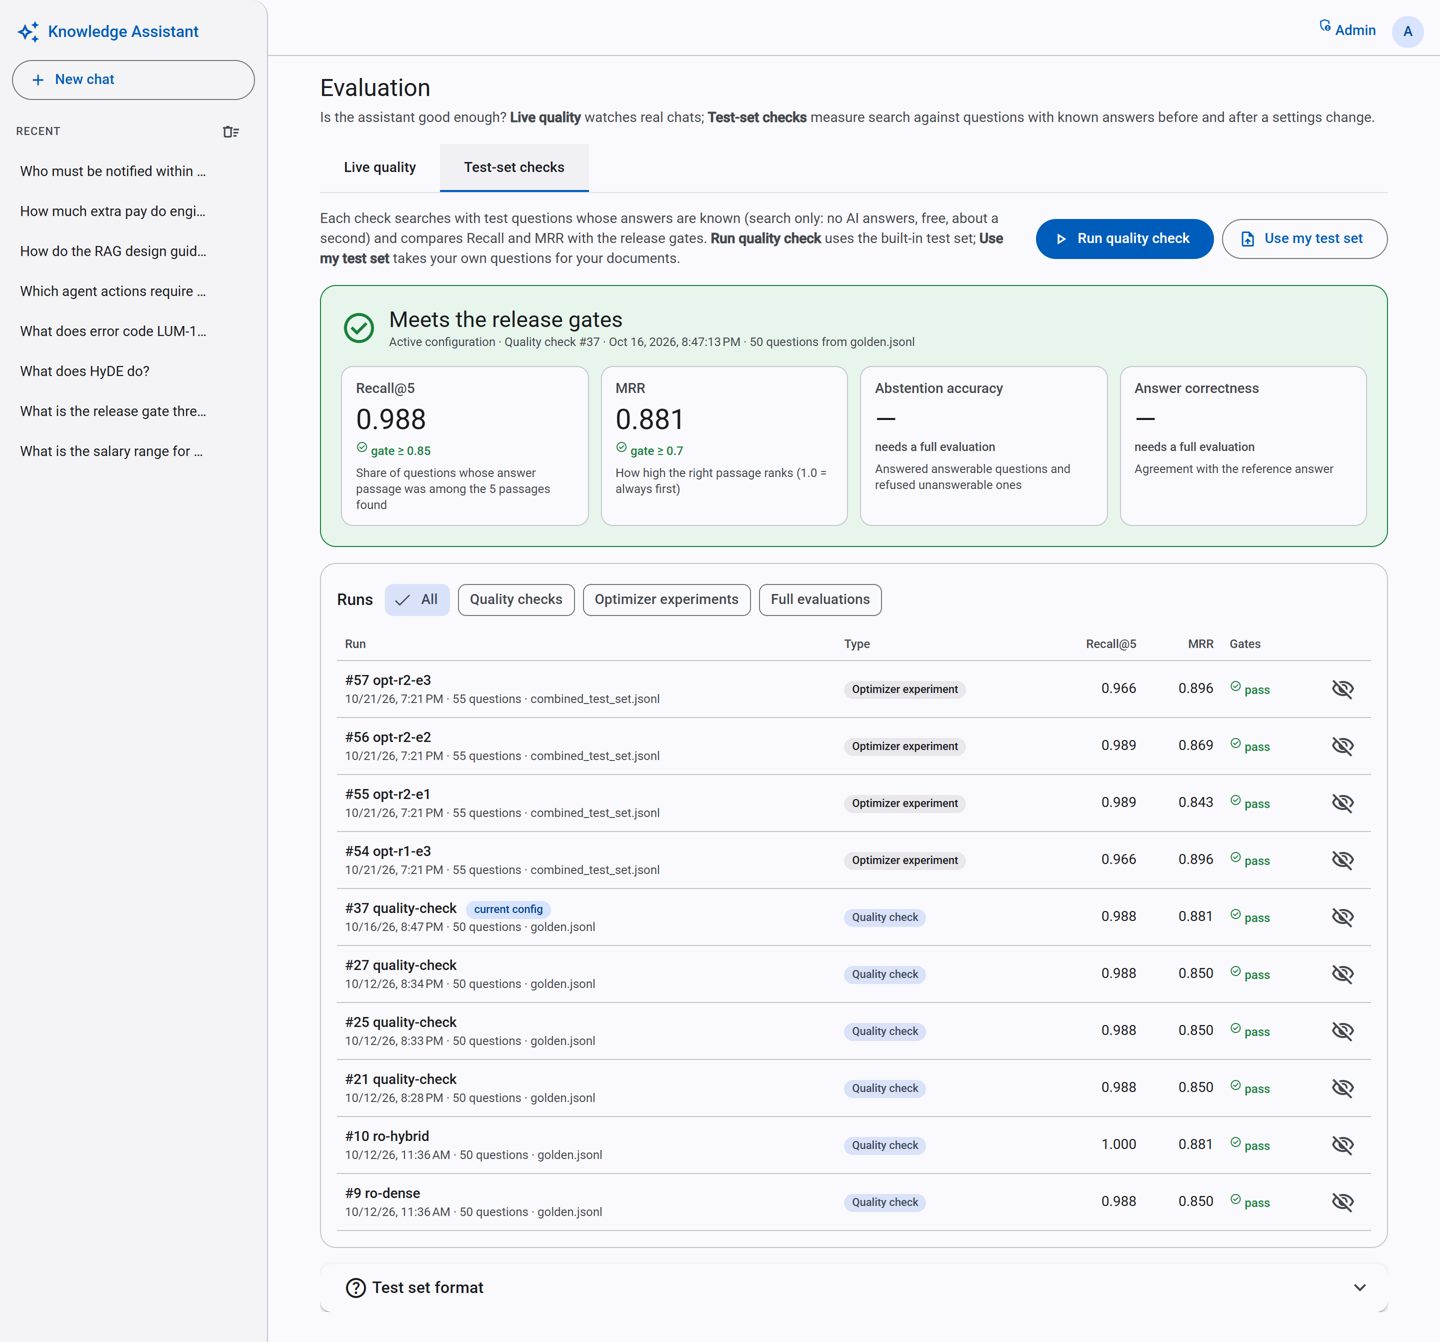
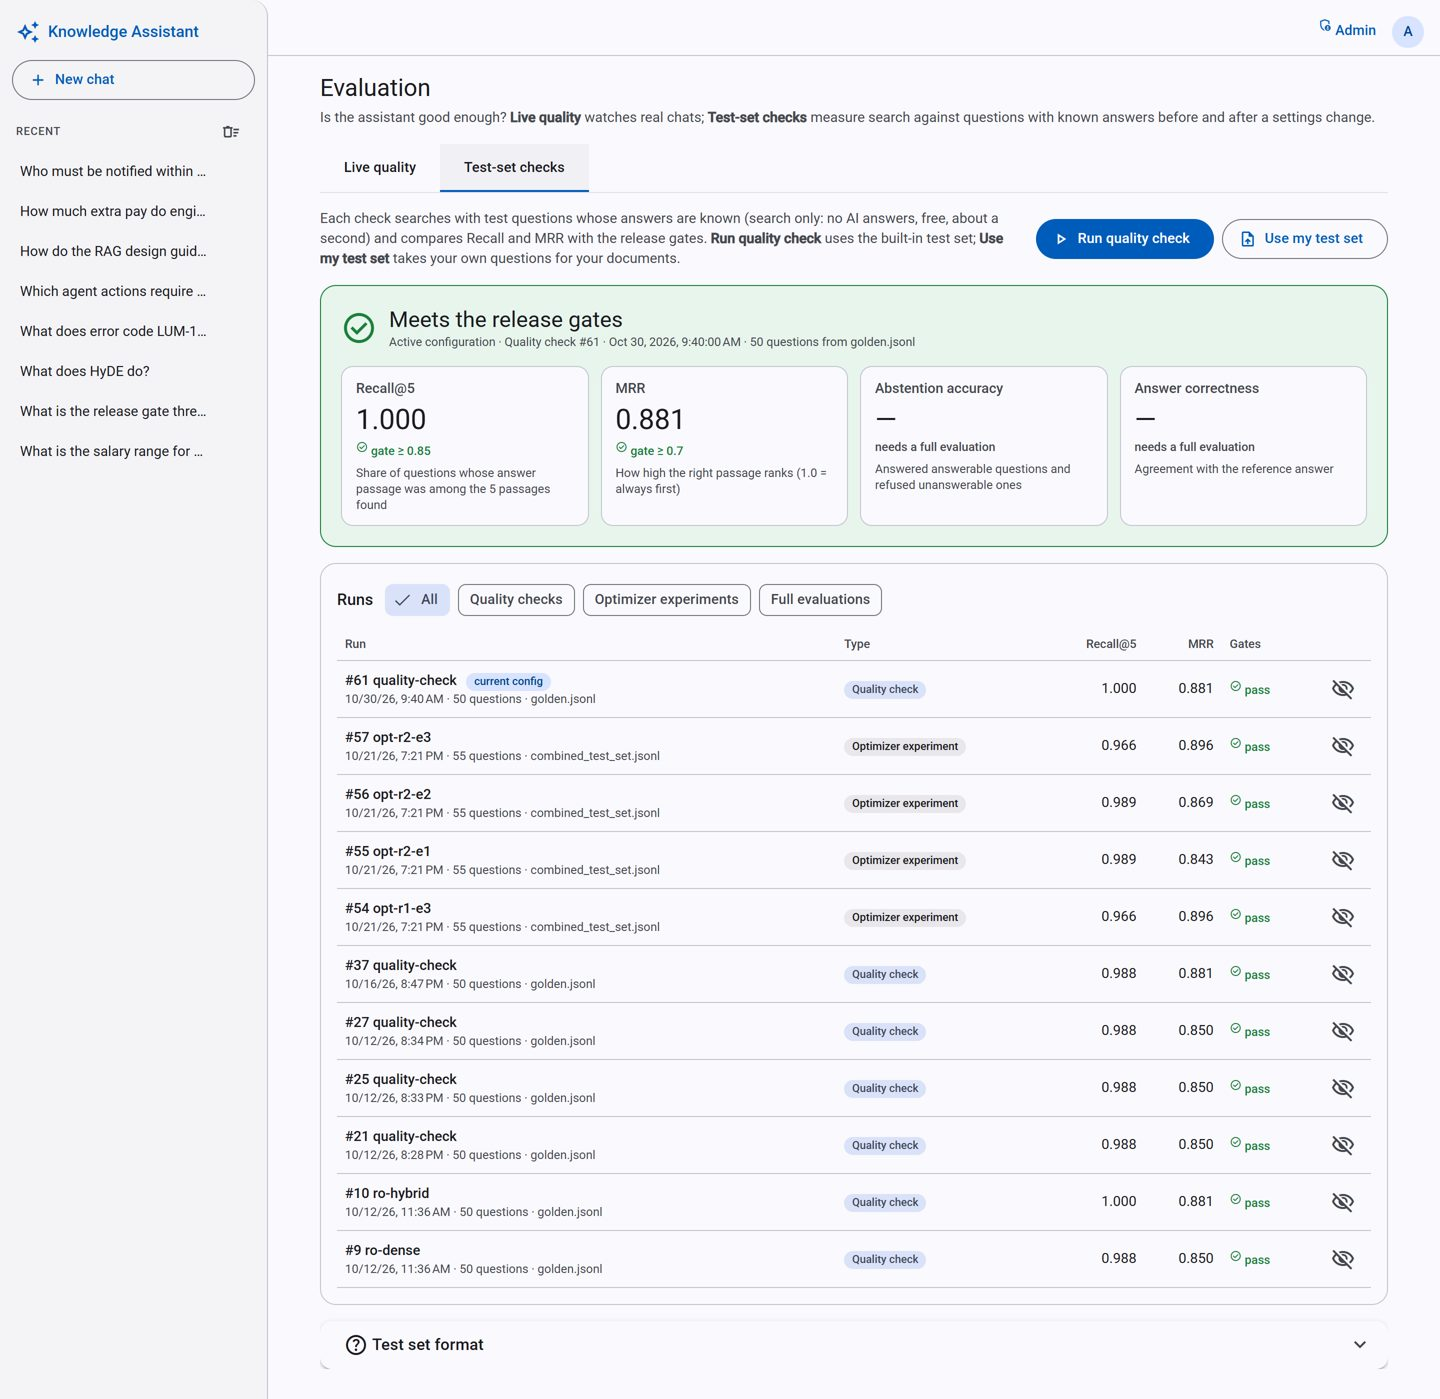
Docs: README screenshots refreshed, refusal wording made exact
Off-topic questions are refused before the LLM is called (the question is
still embedded). Refreshed the refusal, test-set and diagram images.

Synced-from: 9f62670

diff --git a/README.md b/README.md
@@ -89,7 +89,8 @@ for these documents; call counts on the Usage page belong to the sample.
 </p>
 
 **Chat** - one cited answer with its sources; "I don't know" when the documents don't cover a
-question (refused before any AI call); Analyse mode across a whole collection:
+question (an off-topic question is refused before the LLM is called); Analyse mode across a whole
+collection:
 
 ![Cited answer with sources](docs/img/screenshots/chat-answer-sources.jpg)
 ![Refusal with topic suggestions](docs/img/screenshots/chat-refusal.jpg)
